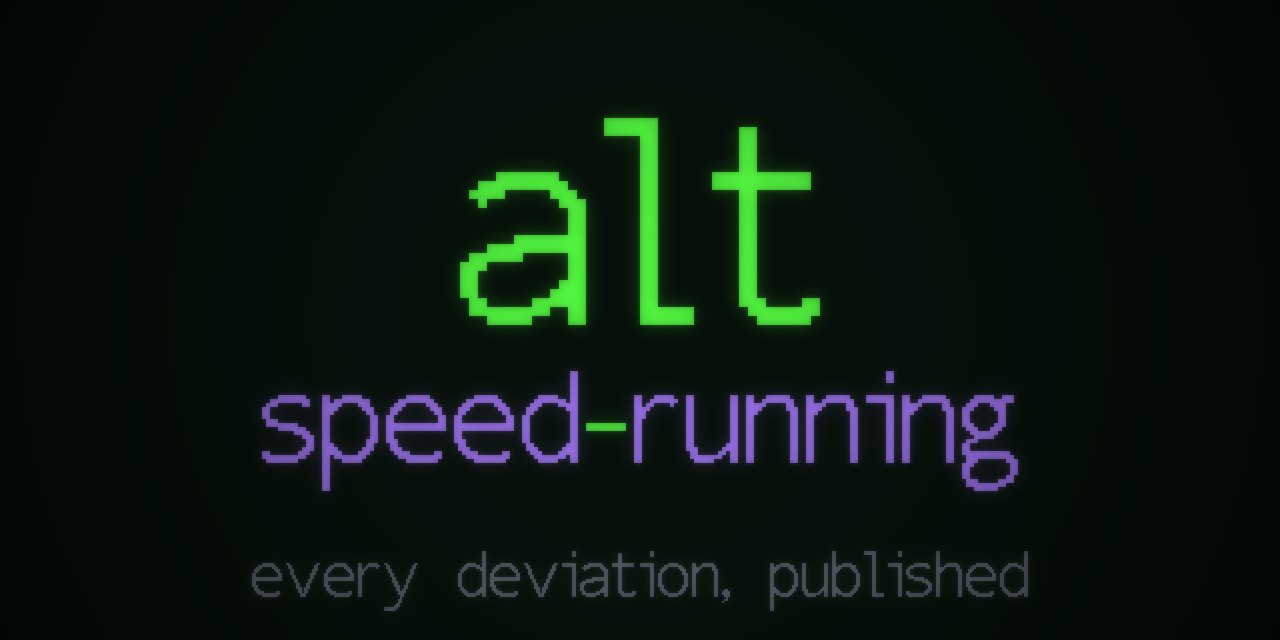
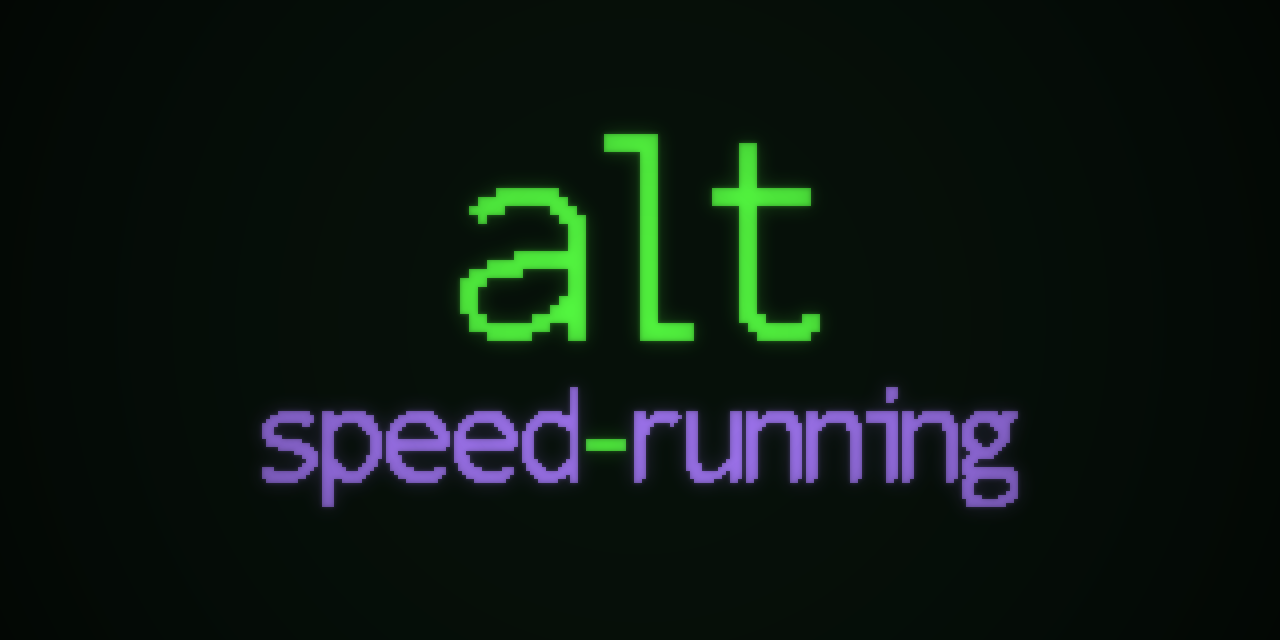
Social card: drop the slogan, bolden the wordmark
No tagline. GitHub prints the repository description directly beneath
this image, so a slogan on the card says the same thing twice, and the
mark carries better alone.

'speed-running' was spindly. Both lines have one-pixel strokes in the
mask but land at nine and four pixels on the card, so the smaller one
looked thin beside the mark. Dilating its mask thickens the strokes
without changing the size - a bolder wordmark rather than a bigger one
competing with the logo.

Down and right only. A symmetric dilation grows the glyph every way
and closes the counters in 'e' and 'a'.

Recentred by measuring the lit region rather than by eye: it read as
top-heavy and was in fact bottom-heavy by 32px.

diff --git a/brand/gen_social.py b/brand/gen_social.py
@@ -73,6 +73,31 @@ def line_mask(text, size, gap=2):
     return rows[top:bot], width, bot - top, spans
 
 
+def thicken(rows, width, height):
+    """Widen every stroke by one base pixel, down and right.
+
+    "alt" is drawn at a much larger scale than the line beneath it, so
+    both have one-pixel strokes in the mask but nine and four pixels on
+    the card. The smaller line reads as spindly next to the mark, and
+    simply enlarging it would make it compete with the mark instead.
+
+    Dilating the mask thickens the strokes without changing the size,
+    which is the difference between a bolder wordmark and a bigger one.
+    Down and right only: a symmetric dilation grows the glyph in every
+    direction and closes the counters in "e" and "a".
+    """
+    out = [[False] * width for _ in range(height)]
+    for y in range(height):
+        for x in range(width):
+            if rows[y][x]:
+                out[y][x] = True
+                if x + 1 < width:
+                    out[y][x + 1] = True
+                if y + 1 < height:
+                    out[y + 1][x] = True
+    return out
+
+
 def paint(card, rows, width, height, x, y, scale, colours):
     """Draw a line at `scale`, nearest-neighbour, colour per x-range.
 
@@ -99,13 +124,14 @@ def main():
     rows, w, h, spans = line_mask("alt", 33)
     sc = 9
     mw, mh = w * sc, h * sc
-    ax, ay = (W - mw) // 2, 118
+    ax, ay = (W - mw) // 2, 134
     paint(card, rows, w, h, ax, ay, sc, [((0, w), G.PHOSPHOR)])
 
     # "speed-running" - one mask, three colours, so the hyphen sits on
     # the same baseline as the letters either side of it.
     text = "speed-running"
     rows, w, h, spans = line_mask(text, 33)
+    rows = thicken(rows, w, h)
     sc = 4
     cut = text.index("-")
     colours = [
@@ -118,14 +144,9 @@ def main():
     _, wh = paint(card, rows, w, h, wx, wy, sc, colours)
 
     # The line that says what it is, clear of the descender on "running".
-    # Short on purpose. The full sentence at a legible size ran the
-    # width of the card edge to edge, and GitHub prints the repository
-    # description directly beneath this image anyway - the card does
-    # not have to carry the whole pitch, only enough of it to be worth
-    # clicking.
-    rows, w, h, spans = line_mask("every deviation, published", 33)
-    sc = 2
-    paint(card, rows, w, h, (W - w * sc) // 2, wy + wh + 60, sc, [((0, w), DIM)])
+    # No slogan. GitHub prints the repository description directly
+    # beneath this image, so a tagline on the card says the same thing
+    # twice - and the mark carries better on its own.
 
     glow = card.filter(ImageFilter.GaussianBlur(G.BLOOM_TIGHT_RADIUS))
     card = Image.blend(card, glow, 0.35)
